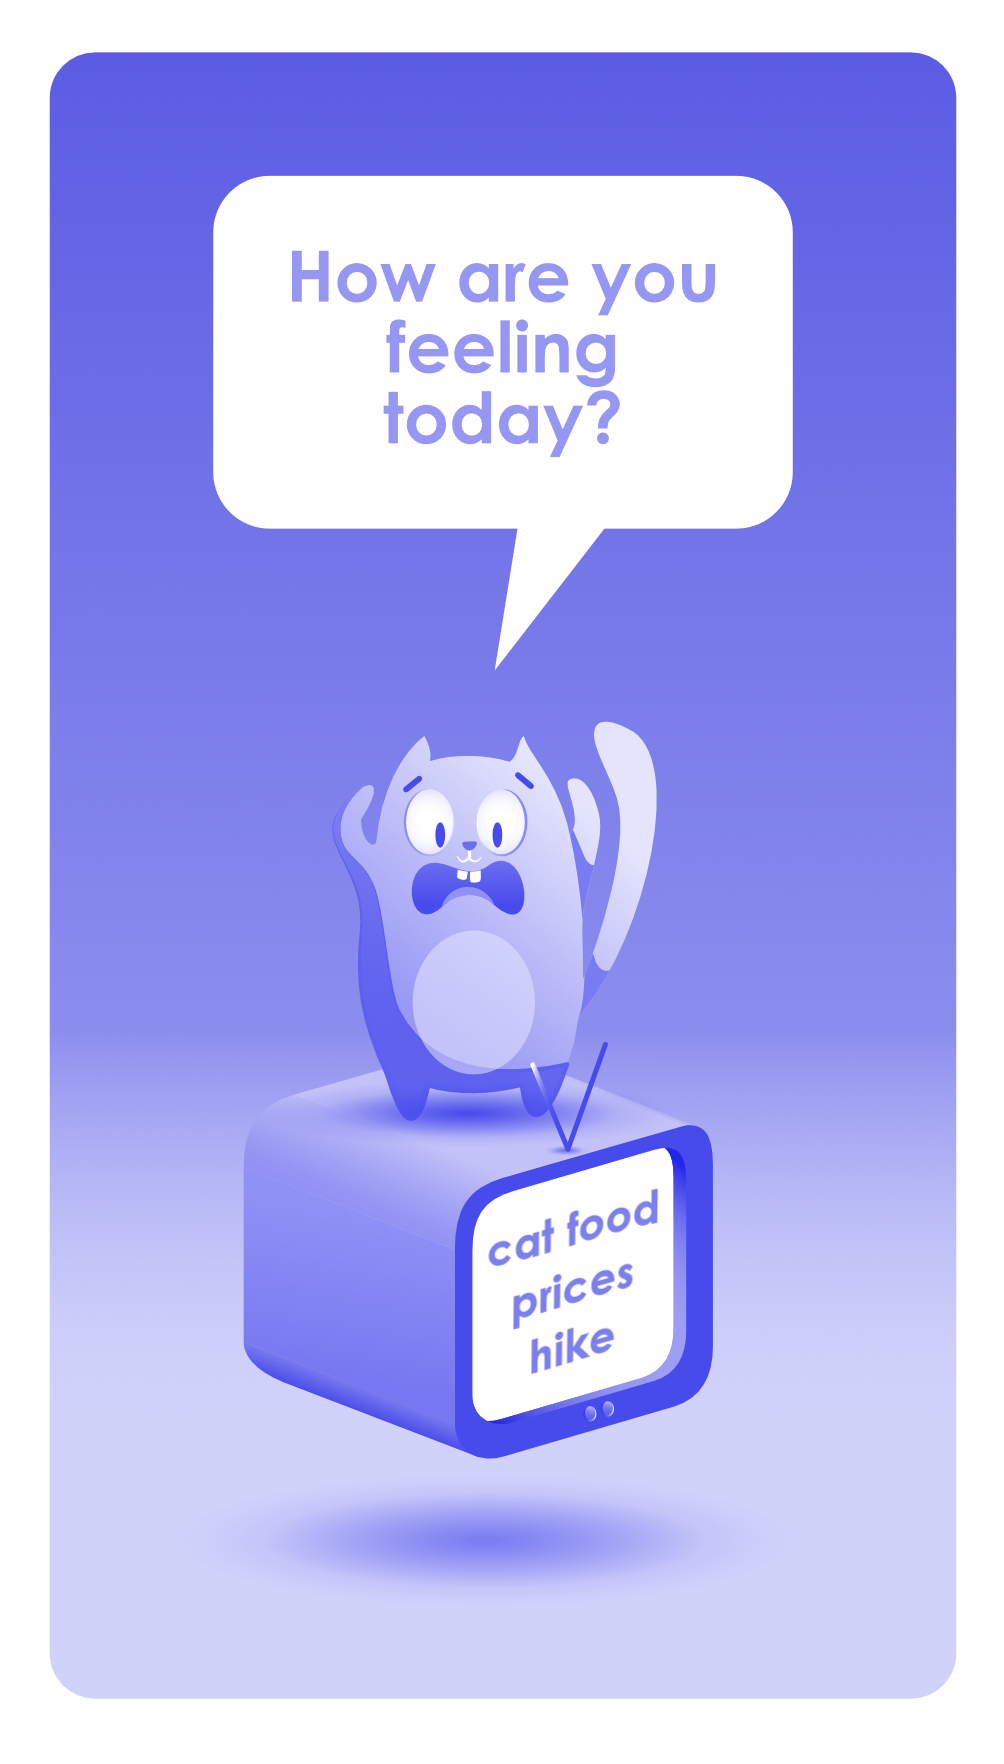
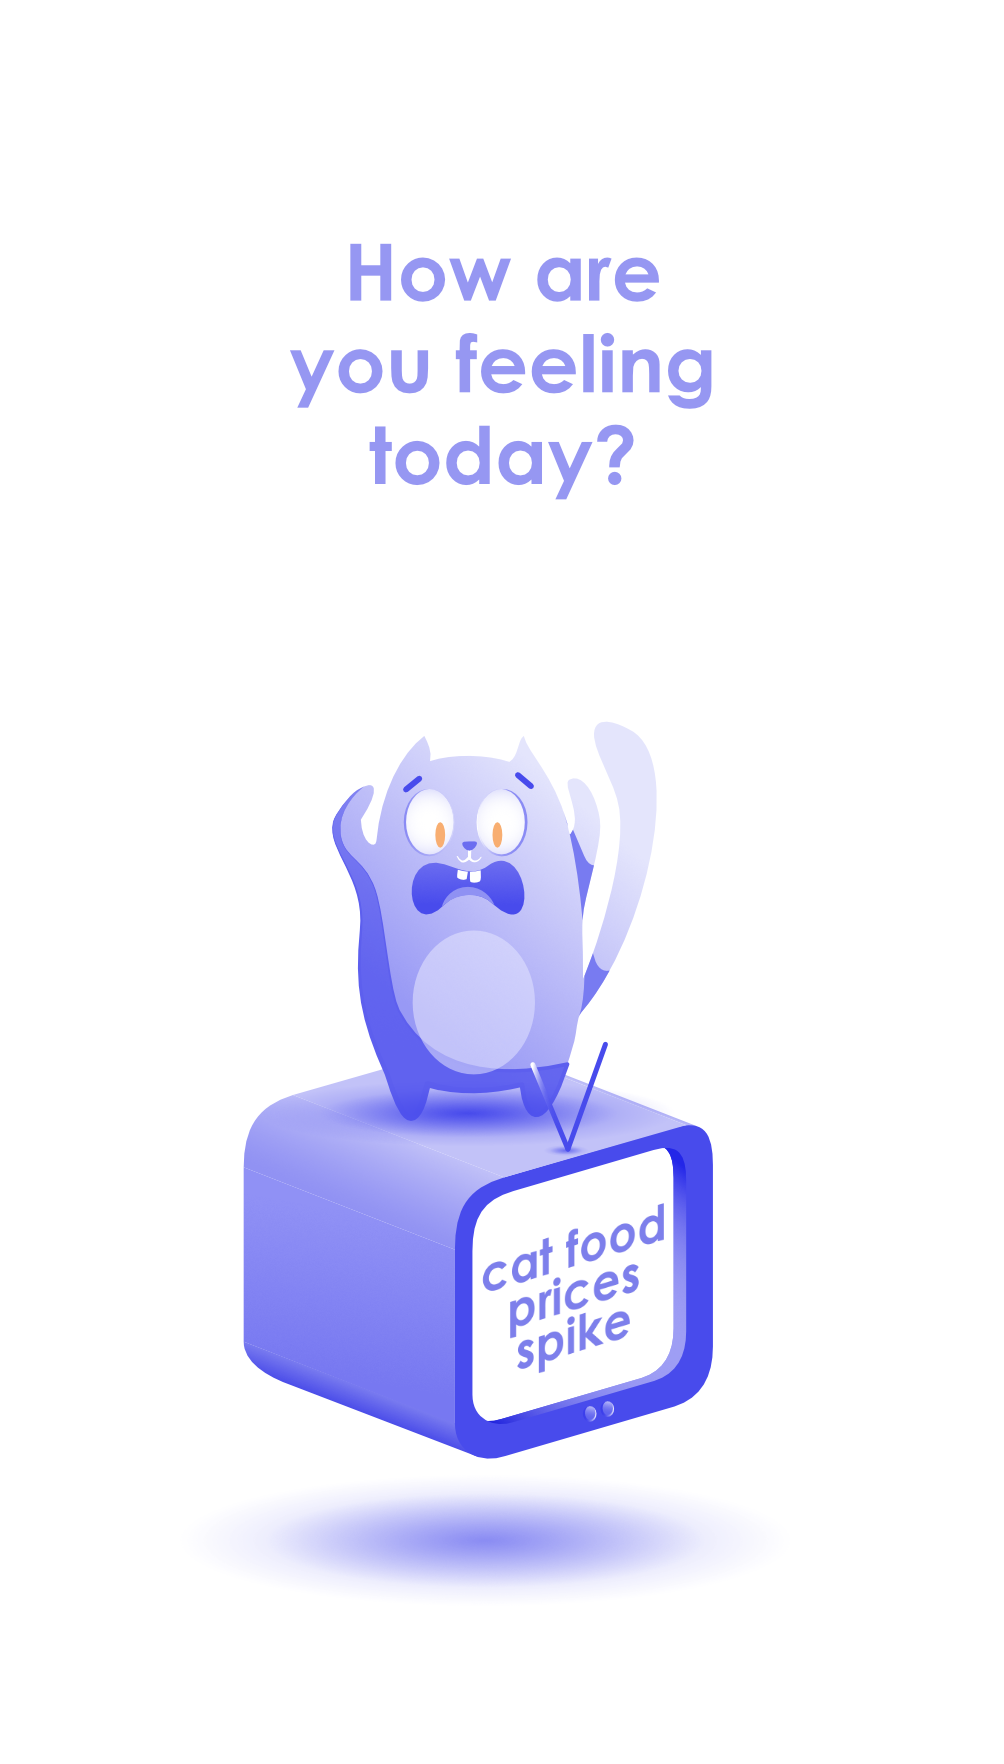
design changes

diff --git a/src/components/MultiSelectQuiz/multiselectquiz.tsx b/src/components/MultiSelectQuiz/multiselectquiz.tsx
@@ -8,6 +8,8 @@ import { json } from "./json";
 import { useNavigate } from "react-router-dom";
 import styled from "styled-components";
 import quizpic from "../../assets/quiz.png";
+import { useDispatch } from "react-redux";
+import { updateBg } from "../../store/slice";
 
 const StyledYesButton = styled.button`
   background: rgba(179, 180, 239, 0.27);
@@ -89,9 +91,9 @@ export function SurveyComponent() {
   const [isDone, setIsDone] = useState(false);
 
   const navigate = useNavigate();
-  // const dispatch = useDispatch();
+  const dispatch = useDispatch();
 
-  // dispatch(updateBg("bgQuiz"));
+  dispatch(updateBg("bgQuiz2"));
 
   const survey = new Model(json);
   survey.onComplete.add((sender) => {
@@ -111,15 +113,11 @@ export function SurveyComponent() {
   ) : (
     <>
       <div style={{ display: "flex", flexDirection: "row" }}>
-        {/* <div> */}
         <img
           style={{ height: "800px", marginLeft: "150px" }}
           src={quizpic}
         ></img>
-        {/* </div> */}
-        {/* <div> */}
         <Survey model={survey} />
-        {/* </div> */}
       </div>
     </>
   );

diff --git a/src/components/MultiSelectQuiz/multi.css b/src/components/MultiSelectQuiz/multi.css
@@ -39,7 +39,7 @@
   gap: 12px;
   height: 48px;
   text-align: center;
-  background: rgba(179, 180, 239, 0.27);
+  background: rgb(255, 255, 255);
   border: transparent;
   border-radius: 100px;
   cursor: pointer;
@@ -79,18 +79,34 @@
   font-style: normal;
   font-weight: bold;
   font-size: 25px;
-  color: #797bec;
+  color: #ffffff;
 }
 
 .sd-question__required-text.sd-question__required-text {
-  color: white;
+  color: transparent;
+}
+
+.sd-input {
+  border-radius: 50px;
+}
+
+.sd-text {
+  font-family: "Outfit";
+  font-style: normal;
+  font-weight: 400;
+  color: #797bec;
 }
 
 .sd-body.sd-body--static {
   max-width: 1000px;
 }
 
-/* .svc-logic-question-value,
+.svc-logic-question-value,
 .sd-element--with-frame {
   background-color: transparent;
-} */
+}
+
+.svc-logic-question-value,
+.sd-element--with-frame {
+  box-shadow: none;
+}

diff --git a/src/components/MultiSelectQuiz/json.tsx b/src/components/MultiSelectQuiz/json.tsx
@@ -3,7 +3,7 @@ export const json = {
     {
       type: "checkbox",
       name: "multiselect",
-      title: "choose three adjectives your mood today",
+      title: "choose three adjectives for your mood today",
       isRequired: true,
       colCount: 3,
       itemComponent: "custom-choice-item",
@@ -34,9 +34,14 @@ export const json = {
         "worried",
         "depressed",
       ],
-      showOtherItem: true,
-      otherPlaceholder: "enter your mood on your own words here",
+      // showOtherItem: true,
+      // otherPlaceholder: "enter your mood on your own words here",
       maxSelectedChoices: 3,
+    },
+    {
+      type: "text",
+      name: "customOption",
+      title: "optional custom feelings",
     },
   ],
   showQuestionNumbers: false,

diff --git a/src/App.tsx b/src/App.tsx
@@ -44,6 +44,8 @@ function App() {
         ? "linear-gradient(153.92deg, #F6C59C 9.05%, #E3B4AB 37.88%, #B3B4EF 79.44%)"
         : bg === "bgQuiz"
         ? "linear-gradient(180deg, #B3B4EF 5.3%, #797BEC 106.76%);"
+        : bg === "bgQuiz2"
+        ? "linear-gradient(180.17deg, #5C5DE3 0%, #8A8CEE 58.41%, #D1D2FA 74.25%);"
         : bg === "bgCircle"
         ? `radial-gradient(
           circle,
